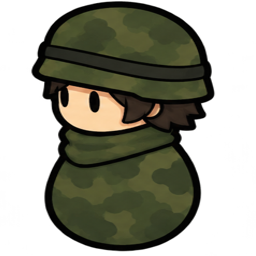
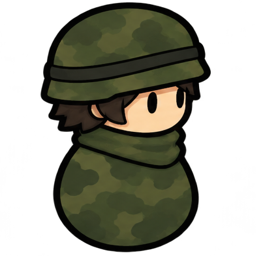
Update minigunner left (l) base sprite

Changed region(s): [[0.125, 0.0, 0.8438, 1.0], [0.5312, 0.6875, 0.5625, 0.7188]]

diff --git a/game.js b/game.js
@@ -157,7 +157,7 @@ const ISO_HH = 32; // половина высоты изотайла (64 / 2)
 const ROAD_WIDTH = 1.0; // ширина дороги в world units
 
 // Версия ассетов в запросе — сбрасывает кеш картинок в браузере/Telegram.
-const ASSET_VER = '?v=20261010d';
+const ASSET_VER = '?v=20261010e';
 
 // HiDPI-масштаб: рендерим канвас в физическом разрешении экрана, а UI
 // задаём в «CSS-пикселях», умножая абсолютные размеры на DPR. Ограничиваем

diff --git a/index.html b/index.html
@@ -45,6 +45,6 @@
   <script src="https://telegram.org/js/telegram-web-app.js"></script>
   <!-- Наш игровой код. Firebase (firebase-config.js) подгружается лениво,
        только при сохранении рекорда — чтобы сайт открывался быстрее. -->
-  <script type="module" src="game.js?v=20261010d"></script>
+  <script type="module" src="game.js?v=20261010e"></script>
 </body>
 </html>
